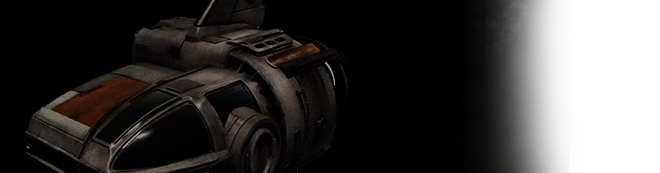
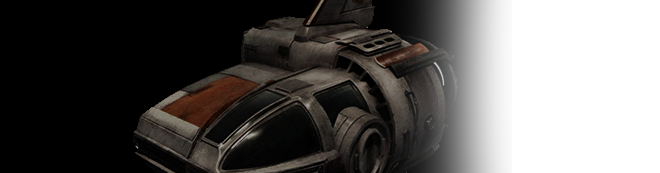
moar

diff --git a/stylesheets/backgrounds.css b/stylesheets/backgrounds.css
@@ -343,6 +343,11 @@
   background-repeat: no-repeat;
   background-position: 0px -30px; }
 
+.ship-resistancetransportpod {
+  background-image: url("../images/resistancetransportpod0.png");
+  background-repeat: no-repeat;
+  background-position: 0px -40px; }
+
 .its-working {
   background-image: url("../images/its_working.png");
   background-repeat: no-repeat;
